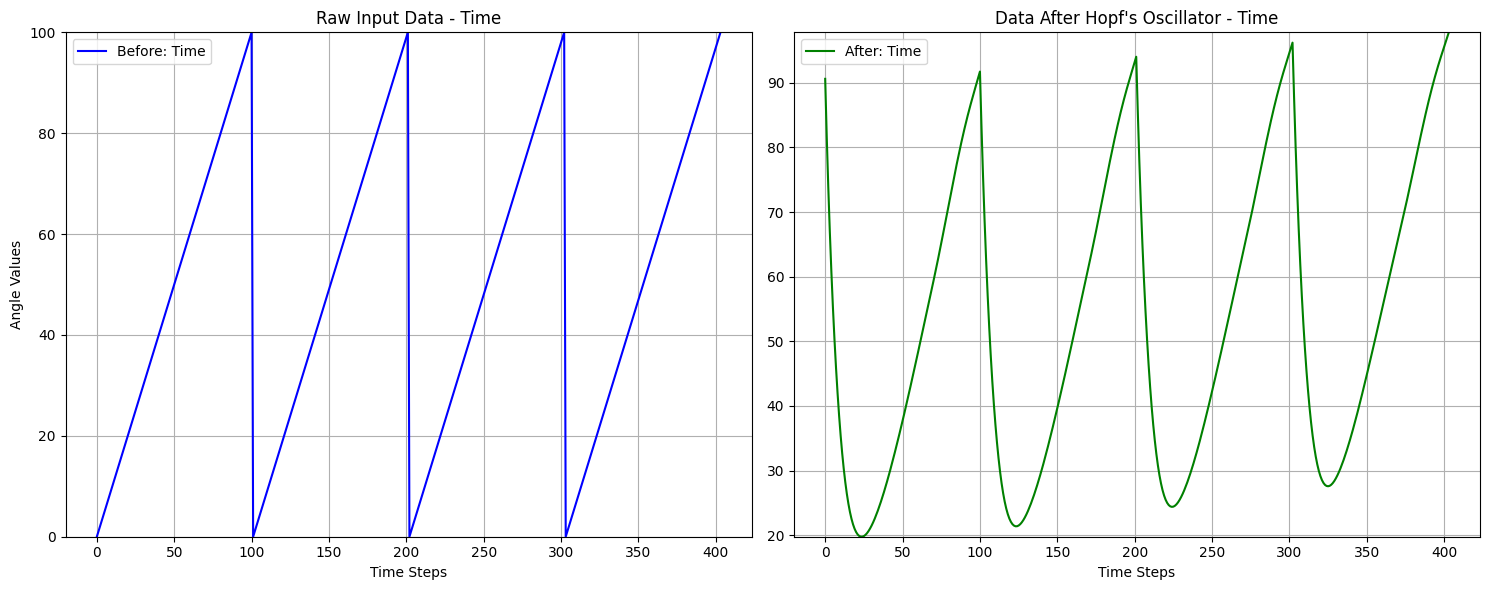
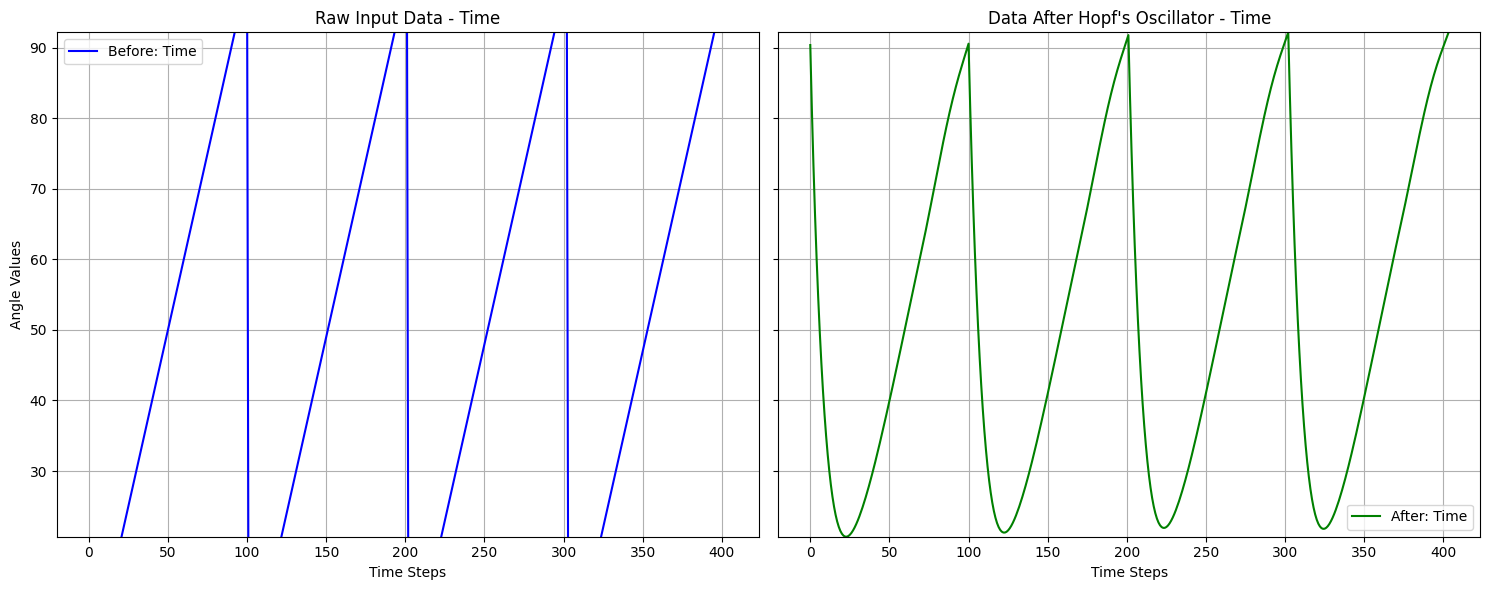
implements coupling v2

diff --git a/utils/visualizer.py b/utils/visualizer.py
@@ -87,7 +87,7 @@ def _plot_side_by_side(before_data: pd.DataFrame, after_data, csv_name: str, max
         column_image_path = os.path.join(base_dir, f"{column}.png")
 
         # Create a single figure with two subplots: before and after
-        fig, axes = plt.subplots(1, 2, figsize=(15, 6), sharey=False)
+        fig, axes = plt.subplots(1, 2, figsize=(15, 6), sharey=True)
 
         # Plot the raw input data (Before) on the left
         axes[0].plot(before_data.index, before_data[column], label=f"Before: {column}", color="blue")
